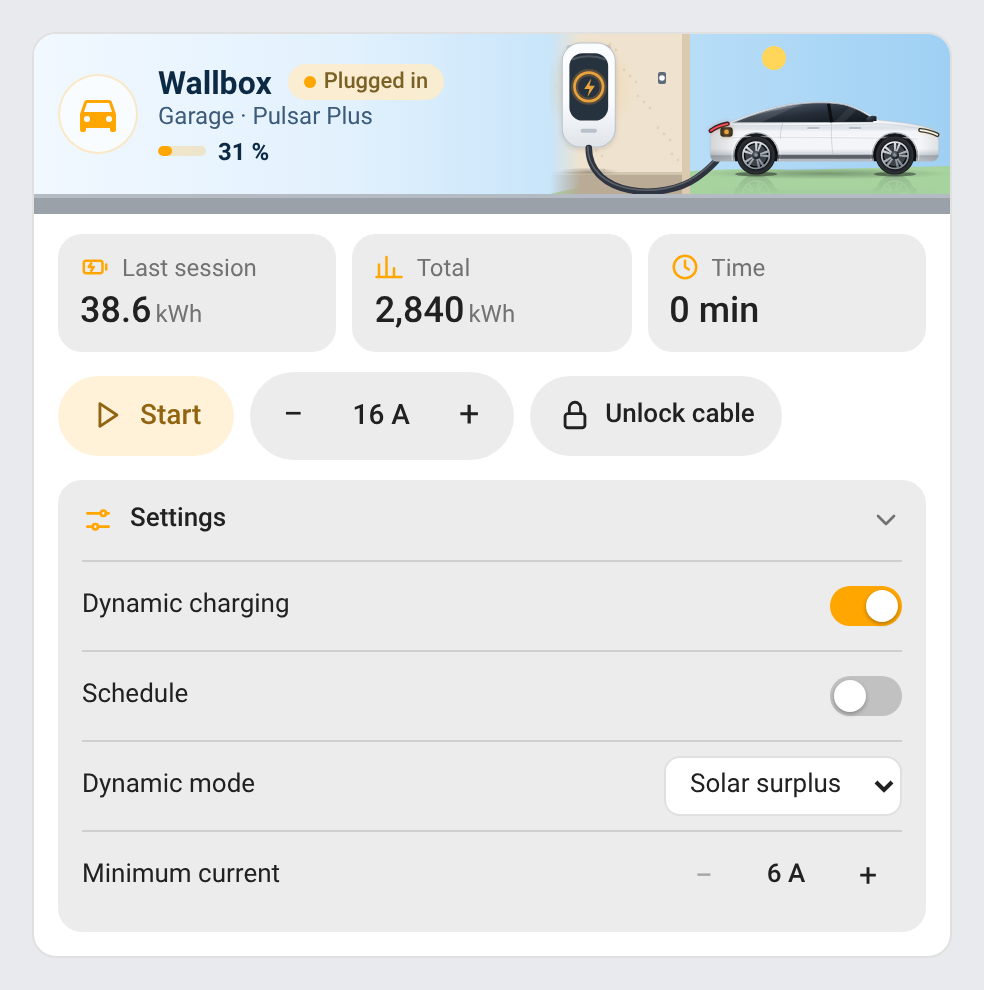
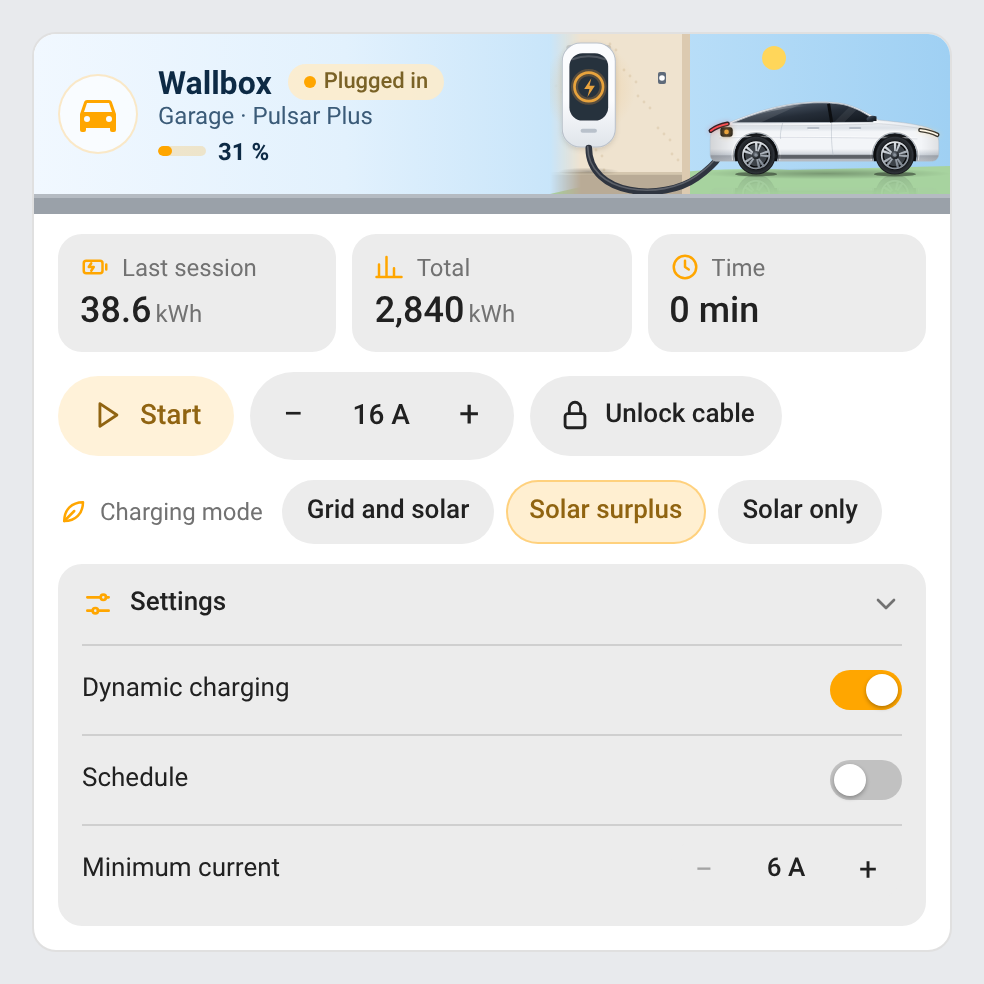
feat: charge mode row, several cars, wattpilot energies fixed (1.5.0) (#29)
## Summary
- **Charge mode on the main screen** (#27): the charger's charge mode select (Fronius Wattpilot *Default / Eco / Next Trip*, zappi *Fast / Eco / Eco+*…) is a new `mode` role, shown as a row of pills under the controls, the current mode lit; `show_mode: false` hides it, `entities.mode` picks it. It leaves the settings section.
- **Several cars** (#28): `cars` lists each car (`entity` = battery level, optional `plug`, `name`, `vehicle`, `color`). The car plugged in last is shown with its name, body and paint; when none says it is plugged in, the level of each car not known unplugged, each named.
- **Wattpilot energies** (#27): *Totally Charged* was taken for the session and *Connection Charged* (state class `total_increasing`) for the total. A sensor named *total* is never the session any more, the total prefers the name over the state class, and the per-ID-chip energies are ignored. `wattpilot` added to the known integrations.
- `t_mode` label in the 22 languages; README (options, roles, supported integrations, new `ev-mode-cars` capture); tests for Wattpilot and several cars.

Closes #27
Closes #28

---
_Generated by [Claude Code](https://claude.ai/code)_

diff --git a/src/ev-charger-card/card.js b/src/ev-charger-card/card.js
@@ -74,7 +74,8 @@ export class EvChargerCard extends RcCard {
     const limit = st("limit");
     const lock = st("lock");
     const dev = device && h.devices?.[device];
-    const battery = c.battery ? h.states[c.battery] : st("battery");
+    const cars = this._carList(st("battery"));
+    const modeSt = st("mode");
     const swName = e.switch ? `${e.switch} ${h.states[e.switch]?.attributes.friendly_name || ""}` : "";
     // A "Pause charging" switch is on while paused: pause turns it on, start turns it off.
     const switchPause = !!e.switch && /pause/i.test(swName) && !/resume/i.test(swName);
@@ -116,9 +117,53 @@ export class EvChargerCard extends RcCard {
       switchPause,
       startId: e.start && h.states[e.start] ? e.start : null,
       stopId: e.stop && h.states[e.stop] ? e.stop : null,
-      soc: evNum(battery),
+      // The car shown (or the cars, several of them and none known plugged in): its level, its name, its illustration.
+      cars,
+      soc: cars[0]?.soc ?? null,
+      vehicle: cars.length === 1 ? cars[0].vehicle : undefined,
+      color: cars.length === 1 ? cars[0].color : undefined,
+      mode: modeSt && !rcUnavailable(modeSt) && c.show_mode !== false
+        ? { id: modeSt.entity_id, state: modeSt.state, options: (modeSt.attributes.options || []).map((o) => [o, h.formatEntityState?.(modeSt, o) || o]) }
+        : null,
       settings: this._settingsOf(device, e, dev?.name_by_user || dev?.name || ""),
     };
+  }
+
+  // The cars charging here. `battery` is one car's level; `cars` lists several (BMW and Tesla on one wallbox), each
+  // `entity` (its battery level) with, optional, `plug` (a binary sensor on while that car is plugged in), `name`,
+  // `vehicle` and `color`. The car plugged in last is the one shown, with its name, its body and its paint; when none
+  // says it is plugged in, every car whose plug is not known off (or every car), each with its name, on the default
+  // illustration.
+  _carList(own) {
+    const h = this._hass;
+    const c = this._config;
+    if (!Array.isArray(c.cars) || !c.cars.length) {
+      const b = c.battery ? h.states[c.battery] : own;
+      return b ? [{ id: b.entity_id, soc: evNum(b) }].filter((x) => x.soc != null) : [];
+    }
+    const all = c.cars
+      .map((x) => (typeof x === "string" ? { entity: x } : x))
+      .filter((x) => x?.entity && h.states[x.entity])
+      .map((x) => {
+        const b = h.states[x.entity];
+        const dev = h.devices?.[h.entities?.[x.entity]?.device_id];
+        const plug = x.plug ? h.states[x.plug] : undefined;
+        return {
+          id: x.entity,
+          soc: evNum(b),
+          name: x.name || dev?.name_by_user || dev?.name || b.attributes.friendly_name || x.entity,
+          vehicle: x.vehicle,
+          color: x.color,
+          plug: plug && !rcUnavailable(plug) ? plug.state === "on" : undefined,
+          since: plug ? Date.parse(plug.last_changed) || 0 : 0,
+        };
+      })
+      .filter((x) => x.soc != null);
+    const plugged = all.filter((x) => x.plug === true).sort((a, b) => b.since - a.since);
+    if (plugged.length) return plugged.slice(0, 1).map((x) => ({ ...x, named: all.length > 1 }));
+    const maybe = all.filter((x) => x.plug !== false);
+    const shown = maybe.length ? maybe : all;
+    return shown.map((x) => ({ ...x, vehicle: shown.length === 1 ? x.vehicle : undefined, color: shown.length === 1 ? x.color : undefined, named: all.length > 1 }));
   }
 
   // The energy of the last session: the session sensor while it holds it; once it is back to 0 out of a charge (V2C
@@ -340,8 +385,8 @@ export class EvChargerCard extends RcCard {
       backdrop: c.show_background !== false,
       label: status,
       animate: this._animate(),
-      vehicle: c.vehicle,
-      color: c.color,
+      vehicle: m.vehicle || c.vehicle,
+      color: m.color || c.color,
     });
     return `
       <div class="banner${c.show_background === false ? " bare" : this._night() ? " night" : ""}">
@@ -354,11 +399,16 @@ export class EvChargerCard extends RcCard {
       </div>`;
   }
 
-  // The car's battery level as a bar and a figure, when a car is plugged in and its level known.
+  // The car's battery level as a bar and a figure, when a car is plugged in and its level known; with several cars
+  // (`cars`), the name before each level, without the bar when there are more than one.
   _soc(m) {
-    if (m.soc == null || m.state === "idle" || m.state === "offline") return "";
-    const pct = Math.max(0, Math.min(100, m.soc));
-    return `<div class="soc"><span class="bar"><i style="width:${pct.toFixed(0)}%"></i></span><b>${Math.round(m.soc)} %</b></div>`;
+    if (!m.cars.length || m.state === "idle" || m.state === "offline") return "";
+    const one = (x) => {
+      const pct = Math.max(0, Math.min(100, x.soc));
+      const name = x.named ? `<span class="cn" title="${rcEsc(x.name)}">${rcEsc(x.name)}</span>` : "";
+      return `<div class="soc">${name}<span class="bar"><i style="width:${pct.toFixed(0)}%"></i></span><b>${Math.round(x.soc)} %</b></div>`;
+    };
+    return m.cars.length > 1 ? `<div class="socs">${m.cars.map(one).join("")}</div>` : one(m.cars[0]);
   }
 
   _draw(m) {
@@ -368,7 +418,7 @@ export class EvChargerCard extends RcCard {
     const banner = c.show_scene !== false && !m.none;
     // Redrawn only when something shown changes: a session energy moving by a few Wh, still 12.4 kWh on screen, must
     // not rebuild the card (and restart the energy flowing along the cable).
-    const parts = [m.none, m.state, m.paused, m.raw, m.name, m.sub, status, m.soc != null && Math.round(m.soc), tiles, m.error, m.limit, m.lock, m.switchId, m.startId, m.stopId, this._armLock, m.settings, this._presetsOpen, this._settingsOpen, this._dark(), this._night()];
+    const parts = [m.none, m.state, m.paused, m.raw, m.name, m.sub, status, m.cars.map((x) => [x.name, Math.round(x.soc)]), m.vehicle, m.color, m.mode, tiles, m.error, m.limit, m.lock, m.switchId, m.startId, m.stopId, this._armLock, m.settings, this._presetsOpen, this._settingsOpen, this._dark(), this._night()];
     if (!this._changed(parts)) return;
     const icon = `<ha-icon icon="${m.none ? "mdi:ev-station" : EV_ICONS[m.state]}"></ha-icon>`;
     const head = banner
@@ -432,7 +482,19 @@ export class EvChargerCard extends RcCard {
       m.lock && primary !== "unlock"
         ? `<button class="gb act-lock${this._armLock ? " armed" : ""}" data-k="lock" aria-pressed="${m.lock.locked}" title="${rcEsc(this._t(m.lock.locked ? "locked" : "unlocked"))}">${evIcon(EV_SVG[m.lock.locked ? "lock" : "unlock"])}<span>${rcEsc(this._t(this._armLock ? "confirm" : action))}</span></button>`
         : "";
-    return `${btn || step || lock ? `<div class="ctl">${btn}${step}${lock}</div>` : ""}${row}${this._settingsHtml(m)}`;
+    return `${btn || step || lock ? `<div class="ctl">${btn}${step}${lock}</div>` : ""}${row}${this._modeHtml(m)}${this._settingsHtml(m)}`;
+  }
+
+  // The charge mode (Wattpilot's Default / Eco / Next Trip…) as a row of pills under the controls, the current one lit.
+  _modeHtml(m) {
+    if (!m.mode || m.mode.options.length < 2) return "";
+    const label = this._t("t_mode");
+    const asked = this._modeAsked && this._modeAsked.id === m.mode.id && Date.now() - this._modeAsked.at < 5000 ? this._modeAsked.option : null;
+    const cur = asked ?? m.mode.state;
+    const pills = m.mode.options
+      .map(([o, text]) => `<button class="ps md${o === cur ? " on" : ""}" data-o="${rcEsc(o)}" aria-pressed="${o === cur}">${rcEsc(text)}</button>`)
+      .join("");
+    return `<div class="modes" role="group" aria-label="${rcEsc(label)}"><span class="ml">${evIcon(EV_SVG.mode)}<span>${rcEsc(label)}</span></span><span class="mp">${pills}</span></div>`;
   }
 
   // The current presets: `current_presets` (6, 10, 13, 16, 20, 25 and 32 A by default; false: none), within the
@@ -557,6 +619,17 @@ export class EvChargerCard extends RcCard {
       this._sig = null;
       this._render();
     });
+    root.querySelector(".modes")?.addEventListener("click", (ev) => {
+      const b = ev.target.closest?.(".md");
+      if (!b || b.dataset.o === (this._modeAsked?.id === m.mode.id ? this._modeAsked.option : m.mode.state)) return;
+      ev.stopPropagation();
+      this._modeAsked = { id: m.mode.id, option: b.dataset.o, at: Date.now() };
+      for (const x of root.querySelectorAll(".modes .md")) {
+        x.classList.toggle("on", x === b);
+        x.setAttribute("aria-pressed", String(x === b));
+      }
+      rcCall(h, "select", "select_option", { entity_id: m.mode.id, option: b.dataset.o });
+    });
     const set = root.querySelector(".set");
     set?.addEventListener("click", (ev) => {
       const b = ev.target.closest?.("button");
@@ -637,6 +710,11 @@ export class EvChargerCard extends RcCard {
     .chip .dot { width: 6px; height: 6px; border-radius: 50%; background: var(--c); flex: none; }
     .chip .ct { min-width: 0; overflow: hidden; text-overflow: ellipsis; }
     .banner.night .chip { background: color-mix(in srgb, var(--c) 30%, rgba(8,18,38,.55)); color: color-mix(in srgb, var(--c) 35%, #ffffff); }
+    /* Several cars: each name and level, no bar, so that the names keep room. */
+    .socs { display: flex; gap: 12px; min-width: 0; flex: 0 1 auto; }
+    .socs .soc { gap: 4px; }
+    .socs .soc .bar { display: none; }
+    .soc .cn { flex: 0 1 auto; min-width: 3ch; max-width: 14ch; overflow: hidden; text-overflow: ellipsis; white-space: nowrap; opacity: .85; }
     .soc { flex: 0 1 auto; min-width: 0; display: flex; align-items: center; gap: 6px; font-size: 12px; }
     .soc b { white-space: nowrap; }
     .soc .bar { flex: 0 1 56px; min-width: 24px; height: 5px; border-radius: 3px; background: color-mix(in srgb, var(--c) 20%, transparent); overflow: hidden; }
@@ -701,6 +779,11 @@ export class EvChargerCard extends RcCard {
     .ps:hover { background: color-mix(in srgb, var(--c) 15%, transparent); }
     .ps.on { color: color-mix(in srgb, var(--c) 50%, var(--primary-text-color, #212121)); background: color-mix(in srgb, var(--c) 18%, transparent);
              box-shadow: inset 0 0 0 1px color-mix(in srgb, var(--c) 40%, transparent); }
+    /* The charge mode, a row of pills under the controls. */
+    .modes { display: flex; flex-wrap: wrap; align-items: center; gap: 6px 10px; margin-top: 10px; }
+    .ml { display: inline-flex; align-items: center; gap: 6px; font-size: 12px; color: var(--secondary-text-color); }
+    .ml svg { width: 15px; height: 15px; color: var(--c); }
+    .mp { display: flex; flex-wrap: wrap; gap: 6px; min-width: 0; }
     /* The charger's settings, folded under a header row. */
     .set { margin-top: 10px; border-radius: 12px; background: var(--secondary-background-color, rgba(127,127,127,.08)); }
     .sh { all: unset; box-sizing: border-box; cursor: pointer; display: flex; align-items: center; gap: 8px; width: 100%; min-height: 40px; padding: 0 12px;

diff --git a/src/shared/ev-charger.js b/src/shared/ev-charger.js
@@ -34,8 +34,9 @@ export const evStateOf = (raw) => {
 export const EV_PLATFORMS = [
   "easee", "wallbox", "zaptec", "ohme", "myenergi", "tesla_wall_connector", "go_echarger", "goecharger", "alfen_wallbox",
   "peblar", "ocpp", "keba", "openwb", "evcc_intg", "wallbox_pulsar", "nrgkick", "smartevse", "v2c", "v2c_trydan", "v2c_cloud", "elli", "hypervolt",
+  "wattpilot",
 ];
-export const EV_NAME = /charger|wallbox|borne|ladestation|evse|easee|zaptec|zappi|ohme|pulsar|go-?e|wall.?connector|alfen|peblar|trydan|v2c/i;
+export const EV_NAME = /charger|wallbox|borne|ladestation|evse|easee|zaptec|zappi|ohme|pulsar|go-?e|wall.?connector|alfen|peblar|trydan|v2c|wattpilot|fronius/i;
 
 // Integrations whose entities are known by their translation key (`domain.key`): read before the discovery by name.
 // null: the integration has no such role (V2C's "error" sensors report the house meter's link, not the charger).
@@ -105,8 +106,9 @@ export const evChargers = (hass) => {
 };
 
 // The entity of each role on the charger's device: status, plug (a car is plugged in), charging (a binary sensor), power, energy (this session), total, limit (a number in A),
-// current, phases, switch (charging allowed), start, stop, lock (cable), cost, duration, error, battery (the car's level).
-export const EV_ROLES = ["status", "plug", "charging", "power", "energy", "total", "limit", "current", "phases", "switch", "start", "stop", "lock", "cost", "duration", "error", "battery"];
+// current, phases, switch (charging allowed), start, stop, lock (cable), cost, duration, error, battery (the car's level),
+// mode (the charge mode select: Wattpilot's Default / Eco / Next Trip, zappi's Fast / Eco / Eco+).
+export const EV_ROLES = ["status", "plug", "charging", "power", "energy", "total", "limit", "current", "phases", "switch", "start", "stop", "lock", "cost", "duration", "error", "battery", "mode"];
 export const evFind = (hass, device, overrides = {}) => {
   const ids = device ? evDeviceEntities(hass)[device] || [] : [];
   const st = (id) => hass.states[id];
@@ -141,9 +143,18 @@ export const evFind = (hass, device, overrides = {}) => {
     (id) => notMax(id) && !named(id, /house|fv|photovolt|solar|grid|battery|contract/i),
     notMax,
   );
-  const energy = ids.filter((id) => dom(id) === "sensor" && dc(id) === "energy" && st(id));
-  r.energy = energy.find((id) => named(id, /session|added|charged|last|current|ladung|recharg/i)) || energy.find((id) => st(id).attributes.state_class !== "total_increasing");
-  r.total = energy.find((id) => id !== r.energy && (named(id, /total|lifetime|meter|cumul|gesamt/i) || st(id).attributes.state_class === "total_increasing"));
+  // The session and the lifetime energy; a sensor named *total* is never the session, even named *charged* too
+  // (Wattpilot's "Totally Charged" beside its session "Connection Charged", whose state class is total_increasing).
+  // The energy charged per ID chip (Wattpilot, go-e) is neither.
+  const energy = ids.filter((id) => dom(id) === "sensor" && dc(id) === "energy" && st(id) && !named(id, /id.?chip|rfid|badge/i));
+  const TOTAL = /total|lifetime|meter|cumul|gesamt/i;
+  const SESSION = /session|added|charged|last|current|connection|ladung|recharg/i;
+  r.energy =
+    energy.find((id) => named(id, SESSION) && !named(id, TOTAL)) ||
+    energy.find((id) => st(id).attributes.state_class !== "total_increasing" && !named(id, TOTAL)) ||
+    energy.find((id) => named(id, SESSION));
+  r.total =
+    energy.find((id) => id !== r.energy && named(id, TOTAL)) || energy.find((id) => id !== r.energy && st(id).attributes.state_class === "total_increasing");
   r.limit = pick((id) => dom(id) === "number" && (unit(id) === "A" || dc(id) === "current"), (id) => named(id, /limit|max|current|courant|strom/i));
   r.current = pick((id) => dom(id) === "sensor" && dc(id) === "current", (id) => !named(id, /max|limit/i));
   r.phases = pick((id) => dom(id) === "sensor" && named(id, /phase/i) && evNum(st(id)) != null);
@@ -160,6 +171,11 @@ export const evFind = (hass, device, overrides = {}) => {
   r.duration = pick((id) => dom(id) === "sensor" && (dc(id) === "duration" || named(id, /charging.?time|duration|duree|ladedauer/i)) && evMinutes(st(id)) != null);
   r.error = pick((id) => (dom(id) === "sensor" && named(id, /error|fault|erreur|fehler/i)) || (dom(id) === "binary_sensor" && dc(id) === "problem"));
   r.battery = pick((id) => dom(id) === "sensor" && dc(id) === "battery");
+  // The charge mode: a select named a mode, not the phases', the LED's or a status.
+  r.mode = pick(
+    (id) => dom(id) === "select" && named(id, /mode|modus|modo|tryb/i) && !named(id, /phase|led|light|display|lumi|status|state|etat|log/i) && (st(id).attributes.options || []).length > 1,
+    (id) => named(id, /charg|lade|recharg|carga|ricarica/i),
+  );
   // The roles an integration is known to name.
   const keyed = ids.find((id) => EV_KEYS[hass.entities?.[id]?.platform]);
   const keys = keyed && EV_KEYS[hass.entities[keyed].platform];

diff --git a/src/ev-charger-card/core.js b/src/ev-charger-card/core.js
@@ -382,4 +382,5 @@ export const EV_SVG = {
   power: '<path d="M4 18a8 8 0 1 1 16 0"/><path d="M12 18l4-6"/>',
   settings: '<path d="M4 7h10M18 7h2M4 17h4M12 17h8"/><circle cx="16" cy="7" r="2"/><circle cx="10" cy="17" r="2"/>',
   chevron: '<path d="M9 6l6 6-6 6"/>',
+  mode: '<path d="M5 20c0-9 6-15 15-15 0 9-6 15-15 15z"/><path d="M5 20l8-8"/>',
 };

diff --git a/src/shared/i18n/el.js b/src/shared/i18n/el.js
@@ -32,6 +32,7 @@ export default {
     t_current: "Ρεύμα",
     t_total: "Σύνολο",
     t_limit: "Όριο",
+    t_mode: "Λειτουργία φόρτισης",
     t_last: "Τελευταία συνεδρία",
     phases_one: "{n} φάση",
     phases_many: "{n} φάσεις",

diff --git a/src/shared/i18n/sr.js b/src/shared/i18n/sr.js
@@ -32,6 +32,7 @@ export default {
     t_current: "Струја",
     t_total: "Укупно",
     t_limit: "Ограничење",
+    t_mode: "Режим пуњења",
     t_last: "Последња сесија",
     phases_one: "{n} фаза",
     phases_many: "{n} фаза",

diff --git a/src/shared/i18n/uk.js b/src/shared/i18n/uk.js
@@ -32,6 +32,7 @@ export default {
     t_current: "Струм",
     t_total: "Усього",
     t_limit: "Ліміт",
+    t_mode: "Режим заряджання",
     t_last: "Остання сесія",
     phases_one: "{n} фаза",
     phases_many: "{n} фази",

diff --git a/src/shared/i18n/bg.js b/src/shared/i18n/bg.js
@@ -32,6 +32,7 @@ export default {
     t_current: "Ток",
     t_total: "Общо",
     t_limit: "Лимит",
+    t_mode: "Режим на зареждане",
     t_last: "Последна сесия",
     phases_one: "{n} фаза",
     phases_many: "{n} фази",

diff --git a/src/shared/i18n/ru.js b/src/shared/i18n/ru.js
@@ -32,6 +32,7 @@ export default {
     t_current: "Ток",
     t_total: "Всего",
     t_limit: "Лимит",
+    t_mode: "Режим зарядки",
     t_last: "Последняя сессия",
     phases_one: "{n} фаза",
     phases_many: "{n} фазы",

diff --git a/src/shared/i18n/hu.js b/src/shared/i18n/hu.js
@@ -32,6 +32,7 @@ export default {
     t_current: "Áram",
     t_total: "Összesen",
     t_limit: "Korlát",
+    t_mode: "Töltési mód",
     t_last: "Utolsó munkamenet",
     phases_one: "{n} fázis",
     phases_many: "{n} fázis",

diff --git a/src/shared/i18n/it.js b/src/shared/i18n/it.js
@@ -32,6 +32,7 @@ export default {
     t_current: "Corrente",
     t_total: "Totale",
     t_limit: "Limite",
+    t_mode: "Modalità di ricarica",
     t_last: "Ultima sessione",
     phases_one: "{n} fase",
     phases_many: "{n} fasi",

diff --git a/src/shared/i18n/pt.js b/src/shared/i18n/pt.js
@@ -32,6 +32,7 @@ export default {
     t_current: "Corrente",
     t_total: "Total",
     t_limit: "Limite",
+    t_mode: "Modo de carregamento",
     t_last: "Última sessão",
     phases_one: "{n} fase",
     phases_many: "{n} fases",

diff --git a/src/shared/i18n/sr-Latn.js b/src/shared/i18n/sr-Latn.js
@@ -32,6 +32,7 @@ export default {
     t_current: "Struja",
     t_total: "Ukupno",
     t_limit: "Ograničenje",
+    t_mode: "Režim punjenja",
     t_last: "Poslednja sesija",
     phases_one: "{n} faza",
     phases_many: "{n} faza",
